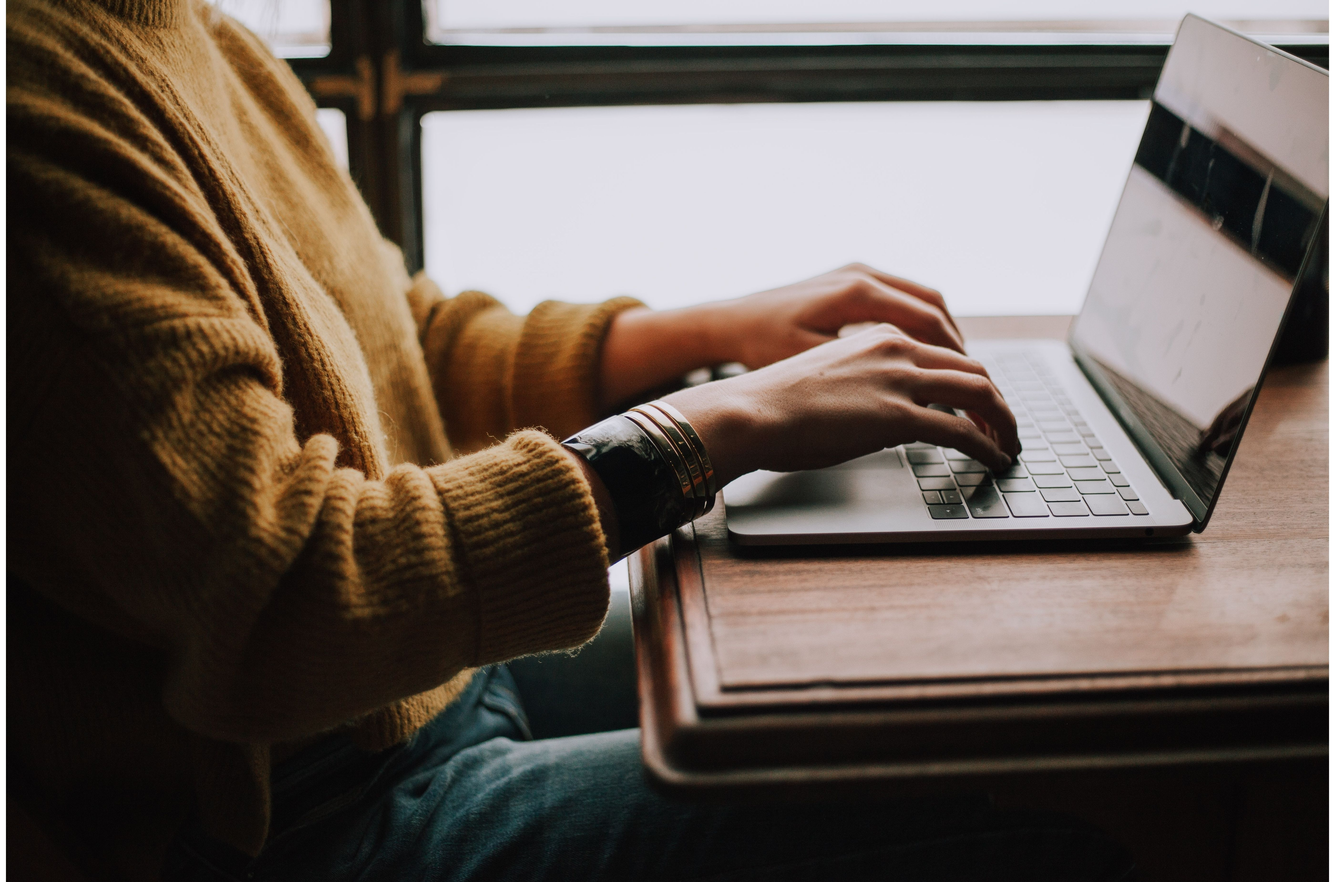
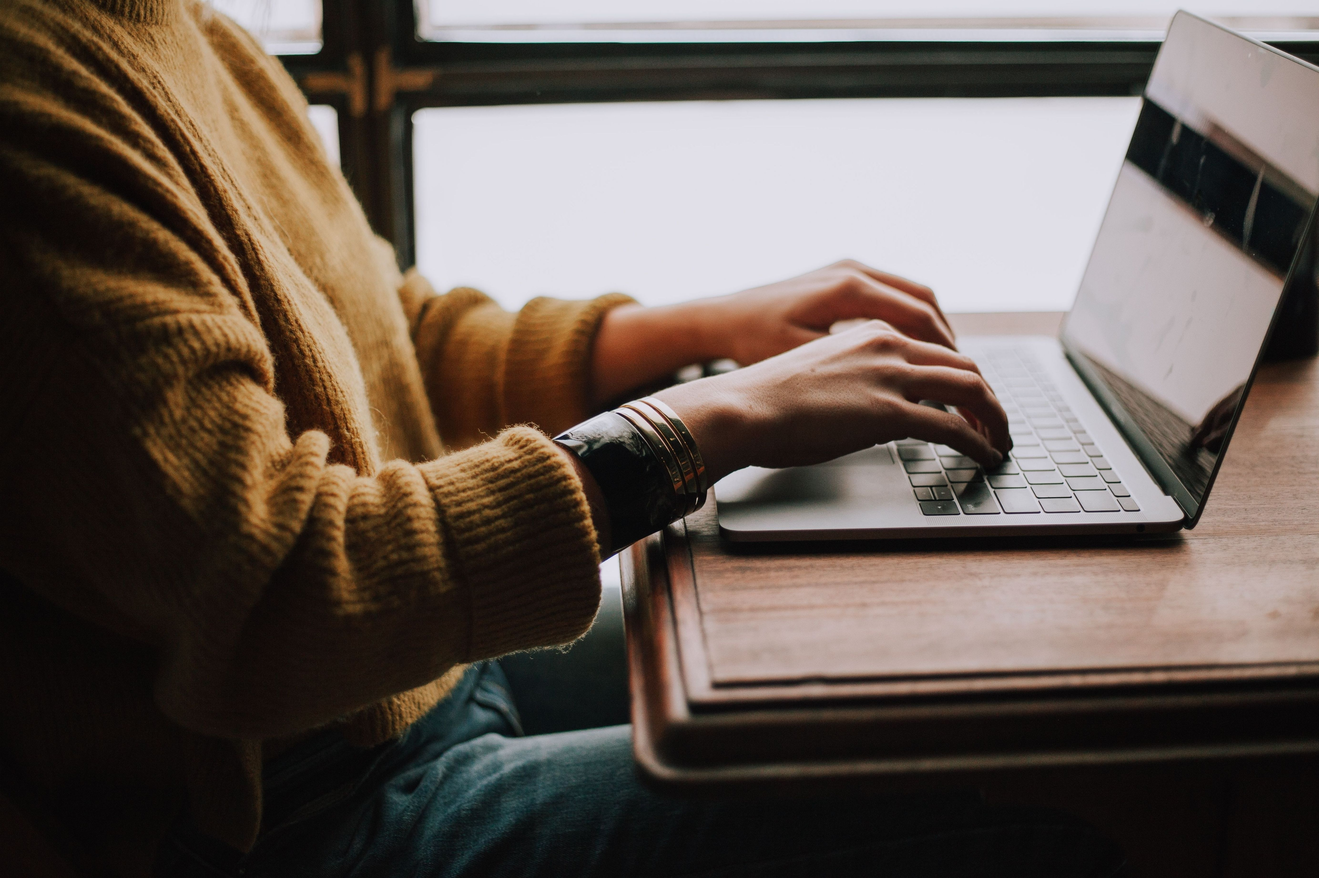
Automatiskt bildspel

diff --git a/script.js b/script.js
@@ -34,8 +34,23 @@ $(document).ready(function(){
     });*/
 
     
-   //-------------Starta och stoppa bildspel - Startsida---------
-   
+   //-------------Automatiskt bildspel- Startsida---------
+   let images = ['img/Bildspel/1.jpg', 'img/Bildspel/2.jpg', 'img/Bildspel/3.jpg', 'img/Bildspel/4.jpg'];
+   let i = 0; 
 
+   window.addEventListener('load', startSlideShow);
+
+   function startSlideShow(){
+       setInterval(changeImg, 1700);
+   }
+
+   function changeImg(){
+       document.getElementById('startBildspel').setAttribute('src', images[i]);
+       i++;
+       if(i == images.length){
+           i= 0; 
+       }
+   }
+//--------------Starta och stoppa bildspel- Startsida---------
 
 });

diff --git a/style.css b/style.css
@@ -66,10 +66,10 @@ footer {width: 100%; position: fixed; bottom: 0; background-color: black; text-a
 
 /*-----Startsida-----*/
 #startText {text-align: center;}
-#containerImages {width: 60%; margin: 0 20%} 
+#containerImages {width: 70%; margin: 0 15%} 
 #startBildspel {width: 100%}
-#buttonImages {background-color: green; margin: 0 20%; width: 60%; text-align: right;}
-#startStop{width: 20%;}
+#buttonImages { margin: 0 20%; width: 60%; text-align: right;}
+#buttonBildspel{width: 10%; border-radius: 30%; margin: 1%}
 
 /*------Moa individuell-----*/
 #quote { margin: 4% 20%;}
